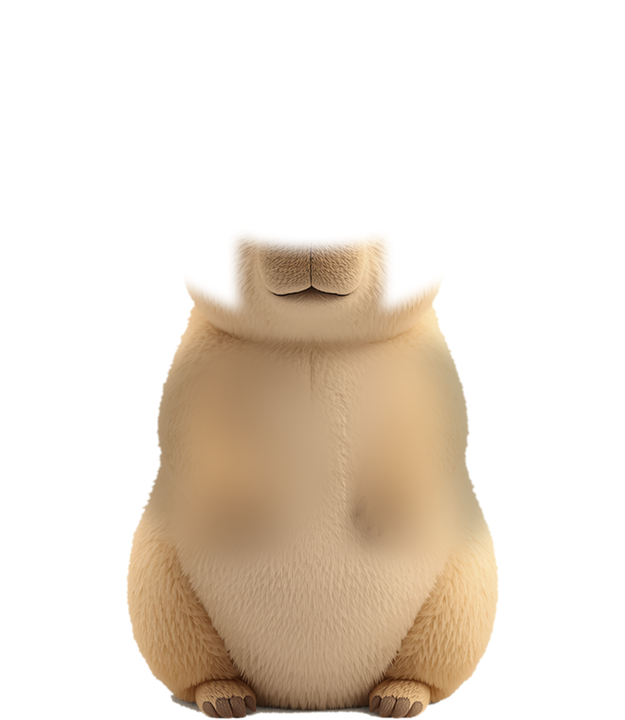
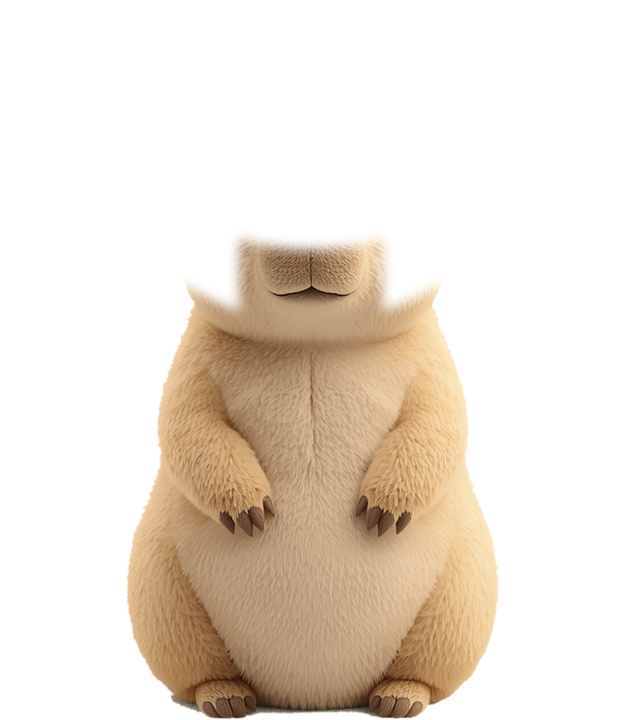
먹을 땐 딴짓 금지, 짝꿍 팔은 안 나눔, 완료 멘트 확장
**먹는 동안 기본 움직임을 멈춘다**(사용자 지적). 두리번거리고 갸웃하는 채로
먹으니 "먹는다"가 아니라 그냥 돌아다니는데 입에서 음식만 사라지는 그림이
됐다. 먹기는 이 게임에서 가장 오래(5초) 보는 동작이라 그 사이에 딴짓이
섞이면 안 된다. 숨은 남긴다 — 완전히 굳으면 이번엔 인형이 된다.

**짝꿍은 팔을 안 나눈다**(사용자 판단: "잘 안 되면 그냥 팔은 그냥 둬").
이 렌더는 앞발이 배에 바짝 붙어 있어 도려낼 자리가 배 한가운데까지 파고든다.
좁게 자르면 발톱이 몸통에 남고, 넓게 자르면 메울 털을 어디서도 못 가져온다 —
옆은 9px뿐이라 헤링본 무늬가 깔리고, 위는 바로 턱이라 얼굴이 배로 내려왔다.
안 나누면 먹을 때 앞발을 못 들지만 **아무것도 망가지지 않는다.** 아기(s1)도
같은 이유로 안 나눈다. 고칠 수 없는 걸 어설프게 고쳐 두는 것보다 낫다.

**완료 멘트를 12개 → 30개로, 글자도 16 → 20으로**(사용자 요청). 열두 개면
하루에 열 판만 깨도 같은 말을 두 번씩 보고, 그러면 글자가 아니라 무늬가 된다.
제목도 8 → 12개. 말투는 하나로 묶어 뒀다 — 자랑하지 않고, 재촉하지 않고,
살짝 웃긴다.

**광고 등급을 G로 제한한다.** 어떤 소재가 나올지는 경매가 정하지만 등급은
우리가 정할 수 있고, G로 못 박으면 성인·도박·과격한 소재가 빠진다.
아동 대상 플래그는 켜지 않는다 — 잘못 켜면 COPPA 의무가 따라붙는다.

Changed region(s): [[0.5472, 0.4583, 0.7904, 0.7639], [0.2128, 0.4889, 0.456, 0.7639], [0.4864, 0.55, 0.5168, 0.5806]]

diff --git a/lib/art/capy_rig.dart b/lib/art/capy_rig.dart
@@ -102,8 +102,10 @@ class CapySkins {
                0.2818, 0.4724, 0.7152, 0.4724],
     'stage5': [0.5076, 0.4289, 0.0454, 0.0503, 0.3636, 0.6439, 0.0789,
                0.2424, 0.4895, 0.7561, 0.4895],
-    'mate':   [0.4970, 0.4553, 0.0424, 0.0403, 0.3970, 0.6061, 0.2566,
-               0.3333, 0.5263, 0.6652, 0.5263],
+    // 짝꿍은 **팔을 나누지 않는다**(어깨 좌표가 없다 = 일곱 개짜리 항목).
+    // 앞발이 배에 바짝 붙은 렌더라 도려낼 자리가 배 한가운데까지 파고들어,
+    // 좁게 자르면 발톱이 남고 넓게 자르면 메울 털이 없다. 아기와 같은 처지다.
+    'mate':   [0.4970, 0.4553, 0.0424, 0.0403, 0.3970, 0.6061, 0.2566],
     // 퍼즐 칸에 쓰는 얼굴. 원본 카피에서 뽑았고 성장과 무관하다.
     // 퍼즐 칸 얼굴은 청소년 렌더에서 뽑는다 — 원본 카피는 둥글고 납작해
     // "빵떡" 소리를 들었다. tool/rig_stages.py의 FACE_FROM이 출처다.
@@ -817,22 +819,31 @@ class _CapyPerformerState extends State<CapyPerformer>
   }
 
   CapyPose _poseAt(double t) {
+    // 먹는 동안은 밑바닥의 미세한 배회까지 끈다. 숨은 남긴다 — 완전히
+    // 굳으면 이번엔 인형이 된다.
+    final wander = (_act == CapyAct.eat || _act == CapyAct.feast) ? 0.0 : 1.0;
     final breathe = math.sin(t * 1.9);
-    var headTurn = math.sin(t * 0.7) * 0.012; // 완전 정지를 막는 미세한 흔들림
+    var headTurn = math.sin(t * 0.7) * 0.012 * wander; // 완전 정지 방지
     var headNod = 0.0;
     var jaw = 0.0;
-    var lean = math.sin(t * 0.55) * 0.006;
+    var lean = math.sin(t * 0.55) * 0.006 * wander;
     var hop = 0.0;
     var shift = 0.0;
     var squash = 0.0;
     // 팔은 가만히 있어도 숨결에 맞춰 아주 조금 흔들린다.
-    var armL = math.sin(t * 1.9 + 0.6) * 0.010;
-    var armR = -math.sin(t * 1.9 + 0.6) * 0.010;
+    var armL = math.sin(t * 1.9 + 0.6) * 0.010 * wander;
+    var armR = -math.sin(t * 1.9 + 0.6) * 0.010 * wander;
     var armLY = 0.0, armRY = 0.0;
 
     // ── 무심코 하는 짓 ──
+    //
+    // **먹는 동안은 아무 짓도 안 한다.** 두리번거리거나 갸웃하는 채로 먹으면
+    // 먹는 게 아니라 그냥 돌아다니는데 입에서 음식만 사라지는 그림이 된다
+    // (사용자 지적). 먹는 건 이 게임에서 가장 오래(5초) 보는 동작이라
+    // 그 사이에 딴짓이 섞이면 안 된다.
+    final busy = _act == CapyAct.eat || _act == CapyAct.feast;
     var smile = 0.0;
-    final qp = (t - _quirkStart) / _quirkLen;
+    final qp = busy ? -1.0 : (t - _quirkStart) / _quirkLen;
     if (qp >= 0 && qp <= 1) {
       final e = _bell(qp);
       /// 앞뒤로 부드럽게 오르내리되 가운데서는 값을 유지하는 사다리꼴.

diff --git a/lib/game/capy_says.dart b/lib/game/capy_says.dart
@@ -27,8 +27,20 @@ class CapySays {
     '유유자적',
     '완벽... 아마도',
     '물 흐르듯',
+    '조용한 승리',
+    '역시 그쪽',
+    '한 수 위',
+    '오늘도 무사히',
   ];
 
+  /// 판을 깨고 나서 카피가 하는 말.
+  ///
+  /// **넉넉히 둔다.** 열두 개일 때는 하루에 열 판만 깨도 같은 말을 두 번씩
+  /// 봤고, 그러면 그때부터는 글자가 아니라 무늬가 된다. 레벨과 점수로 고르니
+  /// 같은 판은 늘 같은 말이지만, 판이 달라지면 한참을 안 겹친다.
+  ///
+  /// 말투는 하나로 묶여 있다 — **자랑하지 않고, 재촉하지 않고, 살짝 웃긴다.**
+  /// "대단해요!" 같은 건 이 캐릭터가 할 말이 아니다.
   static const comments = [
     '서두르지 않아도 결국 풀리는군요.\n카피는 알고 있었어요.',
     '음... 잘했어요.\n이제 좀 누워도 되죠?',
@@ -42,6 +54,24 @@ class CapySays {
     '흠잡을 데가 없네요.\n흠잡기도 귀찮지만.',
     '천천히 온 것치고\n꽤 빨랐어요.',
     '이 판의 평화는 지켜졌습니다.\n카피는 다시 눕겠습니다.',
+    '한 칸도 안 틀리고 갈 수 있는데\n굳이 돌아가지 않았네요.',
+    '머릿속에서 이미 다 풀고\n손만 따라온 거죠?',
+    '어렵다고 안 했잖아요.\n(속으로는 조금 했어요.)',
+    '이런 날은 풀밭에 그냥\n엎드려 있어야 하는데.',
+    '카피가 지켜봤어요.\n중간에 헷갈린 것도 봤고요.',
+    '조용히, 확실하게.\n카피가 좋아하는 방식이에요.',
+    '방금 그 마지막 한 수,\n꽤 멋있었어요.',
+    '풀고 나면 별거 아닌데\n풀기 전엔 다 그렇죠.',
+    '수고했어요.\n오늘 몫은 여기까지 해도 돼요.',
+    '카피는 이런 걸 못 풀어요.\n발이 짧아서요.',
+    '틀린 데가 하나도 없어서\n할 말이 없네요.',
+    '다 풀 줄 알았어요.\n안 믿었으면 안 봤겠죠.',
+    '이쯤 되면 재능 아닌가요.\n아니면 그냥 성실한 거고.',
+    '해가 좋네요.\n판도 좋고요.',
+    '한참 걸렸지만 그래서\n더 시원하죠.',
+    '머리 쓰는 거 보니까\n배고파졌어요. 저만요.',
+    '이 판은 오래 기억날 것 같아요.\n아마 내일까지.',
+    '고생했어요.\n간식은 카피가 먹을게요.',
   ];
 
   static const failComments = [

diff --git a/lib/core/ads.dart b/lib/core/ads.dart
@@ -31,6 +31,19 @@ class Ads {
   static Future<void> init() async {
     if (kIsWeb) return;
     try {
+      // **광고 소재의 등급을 제한한다.**
+      //
+      // 어떤 소재가 나올지는 우리가 못 고른다(경매로 정해진다). 고를 수 있는
+      // 건 등급뿐이고, G로 못 박으면 성인·도박·과격한 소재가 빠져서 "길고
+      // 닫기 버튼이 어디 있는지 모르겠는" 광고가 눈에 띄게 줄어든다.
+      // 매출은 조금 깎이지만, 카피바라 게임에 맞지 않는 광고가 뜨는 쪽이
+      // 훨씬 비싸다.
+      //
+      // 아동 대상(`tagForChildDirectedTreatment`)은 **켜지 않는다** —
+      // 이 앱은 특정 연령을 겨냥하지 않고, 잘못 켜면 COPPA 의무가 따라붙는다.
+      await MobileAds.instance.updateRequestConfiguration(
+        RequestConfiguration(maxAdContentRating: MaxAdContentRating.g),
+      );
       await MobileAds.instance.initialize();
       _ready = true;
       preloadInterstitial();

diff --git a/lib/game/win_celebration.dart b/lib/game/win_celebration.dart
@@ -195,7 +195,10 @@ class _WinCelebrationState extends State<WinCelebration>
                       CapySays.commentFor(widget.level, widget.score),
                       textAlign: TextAlign.center,
                       style: const TextStyle(
-                          fontSize: 16,
+                          // **이 화면에서 제목 다음으로 큰 글자다.** 카피가
+                          // 판마다 다른 말을 건네는 자리인데, 16이면 배경의
+                          // 색종이에 묻혀서 읽히기 전에 넘겨 버린다.
+                          fontSize: 20,
                           height: 1.5,
                           color: Colors.white,
                           fontFamily: 'Apple SD Gothic Neo',

diff --git a/tool/rig_stages.py b/tool/rig_stages.py
@@ -70,12 +70,18 @@ SPECS = [
          (322, 190, 75, 45),
          [(133, 455, 61, 116), (525, 455, 60, 116)], [(160, 372), (499, 372)], [213, 447]),
     # 배우자 — 어른보다 작고 얼굴이 둥글다. 성인과 비슷한 몸매.
-    # 짝꿍은 앞발을 배 쪽으로 모으고 있어 **발톱이 안쪽 깊숙이** 들어와 있다.
-    # 왼쪽 안쪽끝을 247로 잡았더니 발톱 끝 80px이 몸통에 그대로 남아서,
-    # 팔을 들어 먹을 때 배에 발톱만 붙어 있었다(사용자 지적).
+    # **짝꿍은 팔을 나누지 않는다.**
+    #
+    # 이 렌더는 앞발을 배 쪽으로 바짝 모으고 있어서, 도려낼 자리가 배 한가운데
+    # 까지 파고든다. 좁게 자르면 발톱이 몸통에 남고(팔을 들면 배에 발톱만 둥둥
+    # 떴다), 넓게 자르면 메울 털을 어디서도 못 가져온다 — 옆은 9px밖에 안 남아
+    # 헤링본 무늬가 깔리고, 위는 바로 턱이라 얼굴이 배로 내려왔다.
+    #
+    # 팔을 안 나누면 먹을 때 앞발을 못 들지만, **아무것도 망가지지 않는다.**
+    # 아기(s1)도 같은 이유로 안 나눈다. 고칠 수 없는 걸 어설프게 고쳐 놓는
+    # 것보다 낫다(사용자 판단: "잘 안 되면 그냥 팔은 그냥 둬").
     Spec('f1', 328, 138, 340, 300, [(262, 195), (400, 195)], 14,
-         (330, 275, 58, 36),
-         [(201, 478, 45, 90), (458, 478, 45, 90)], [(220, 400), (439, 400)], [334, 393]),
+         (330, 275, 58, 36)),
 ]
 
 # 눈꺼풀을 눈 위 이 배수만큼 떨어진 곳에서 떠 온다(감을 때 그만큼 내려온다).
